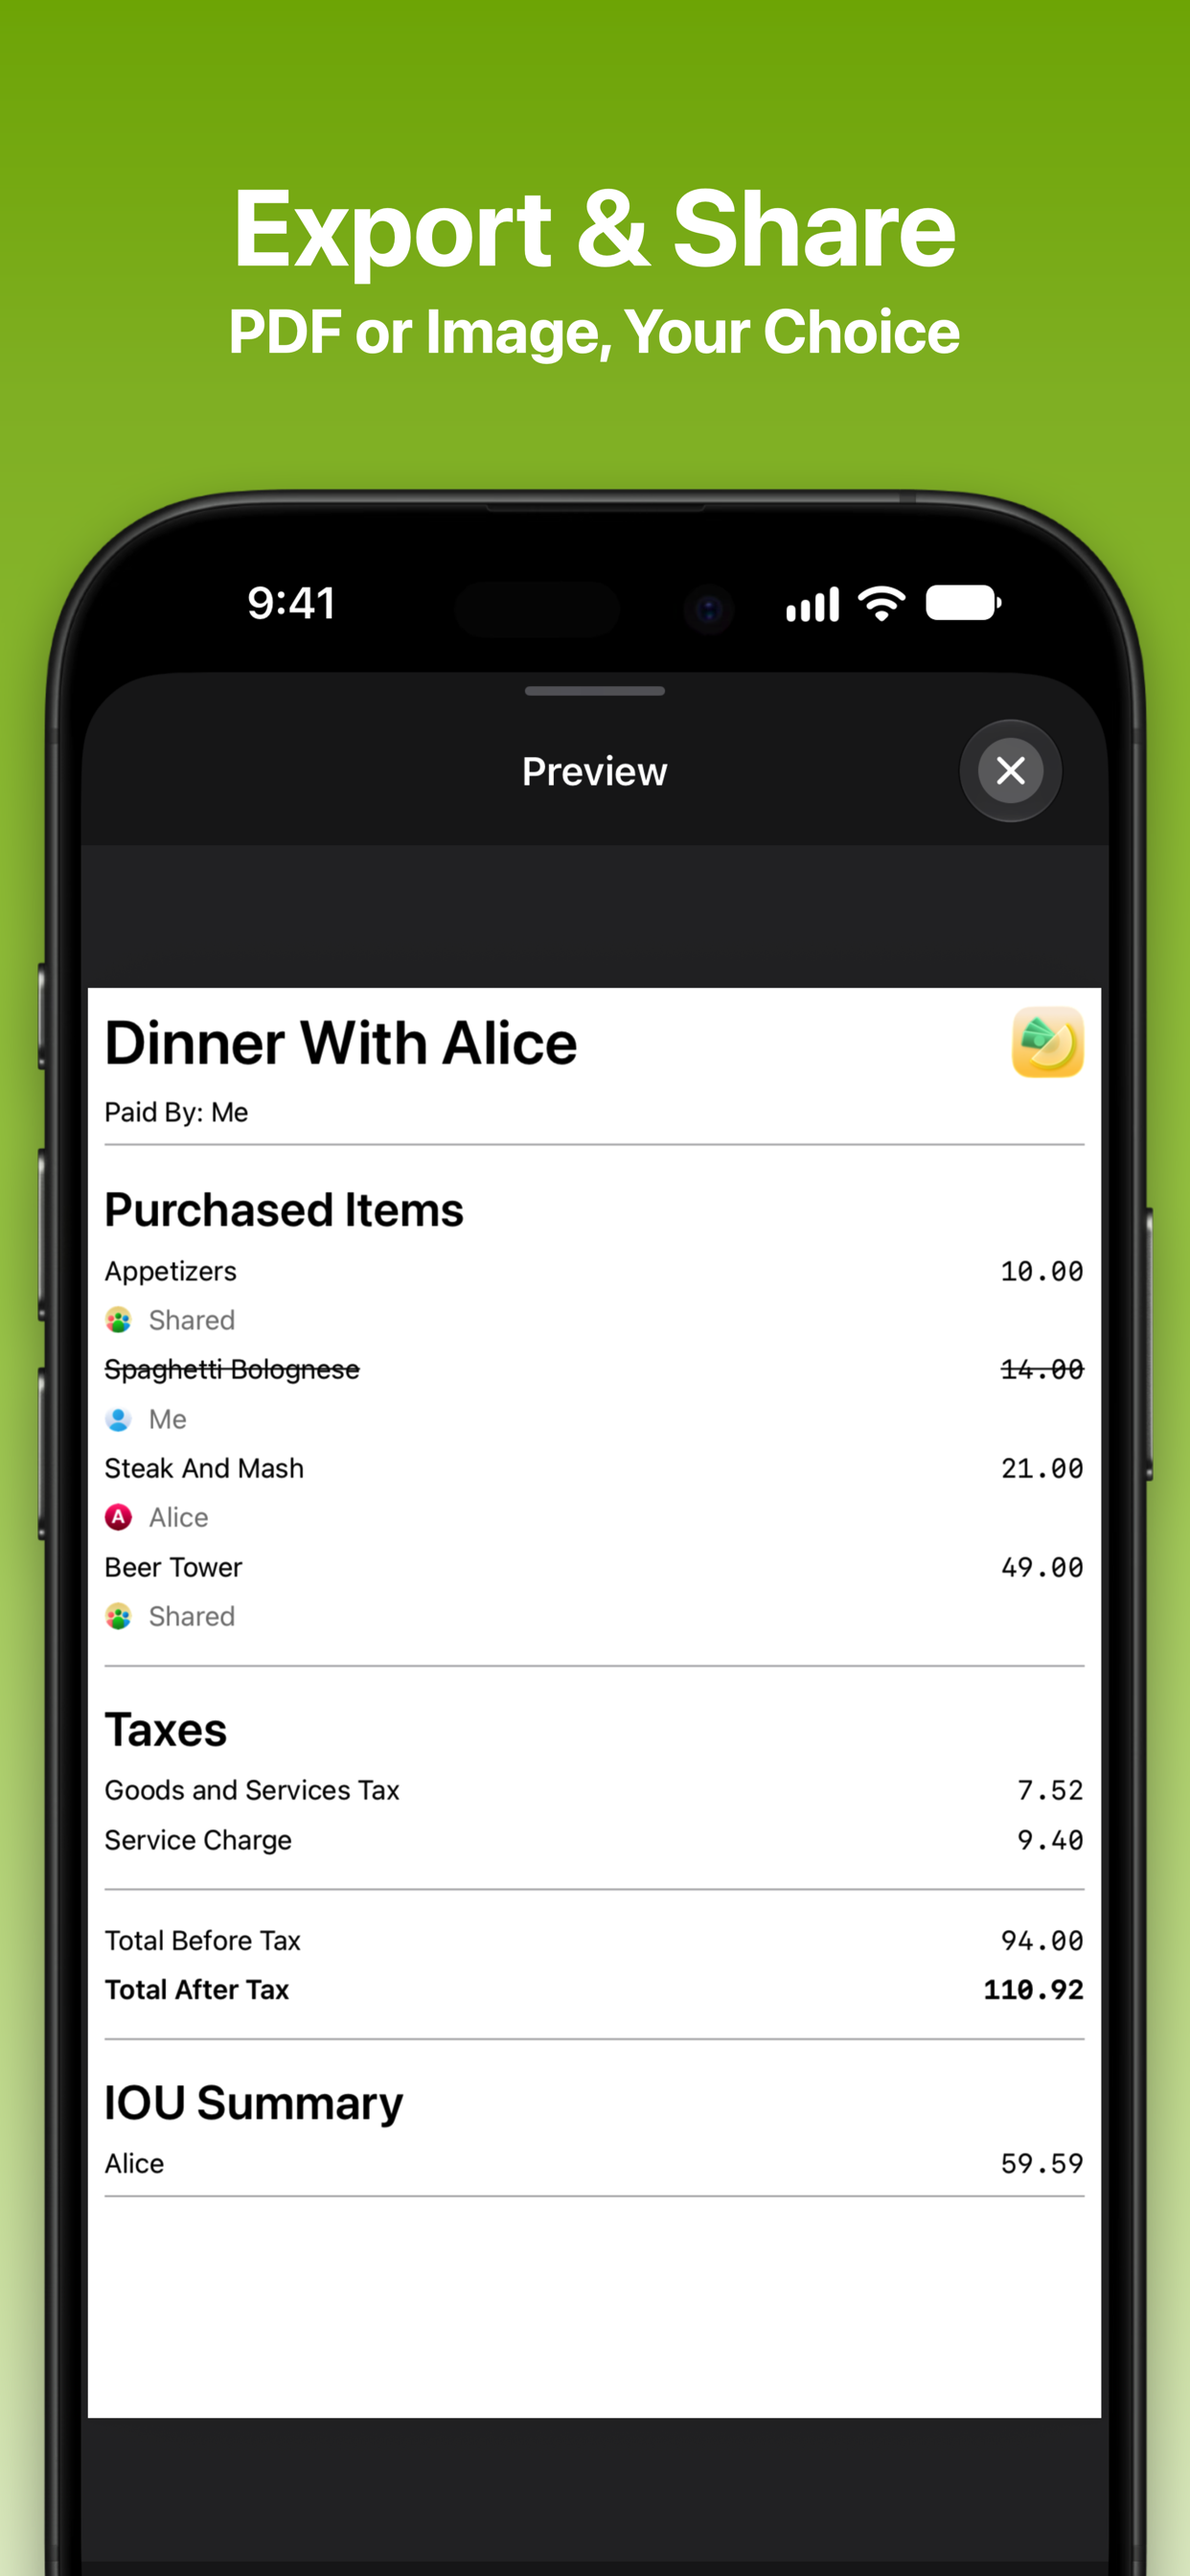
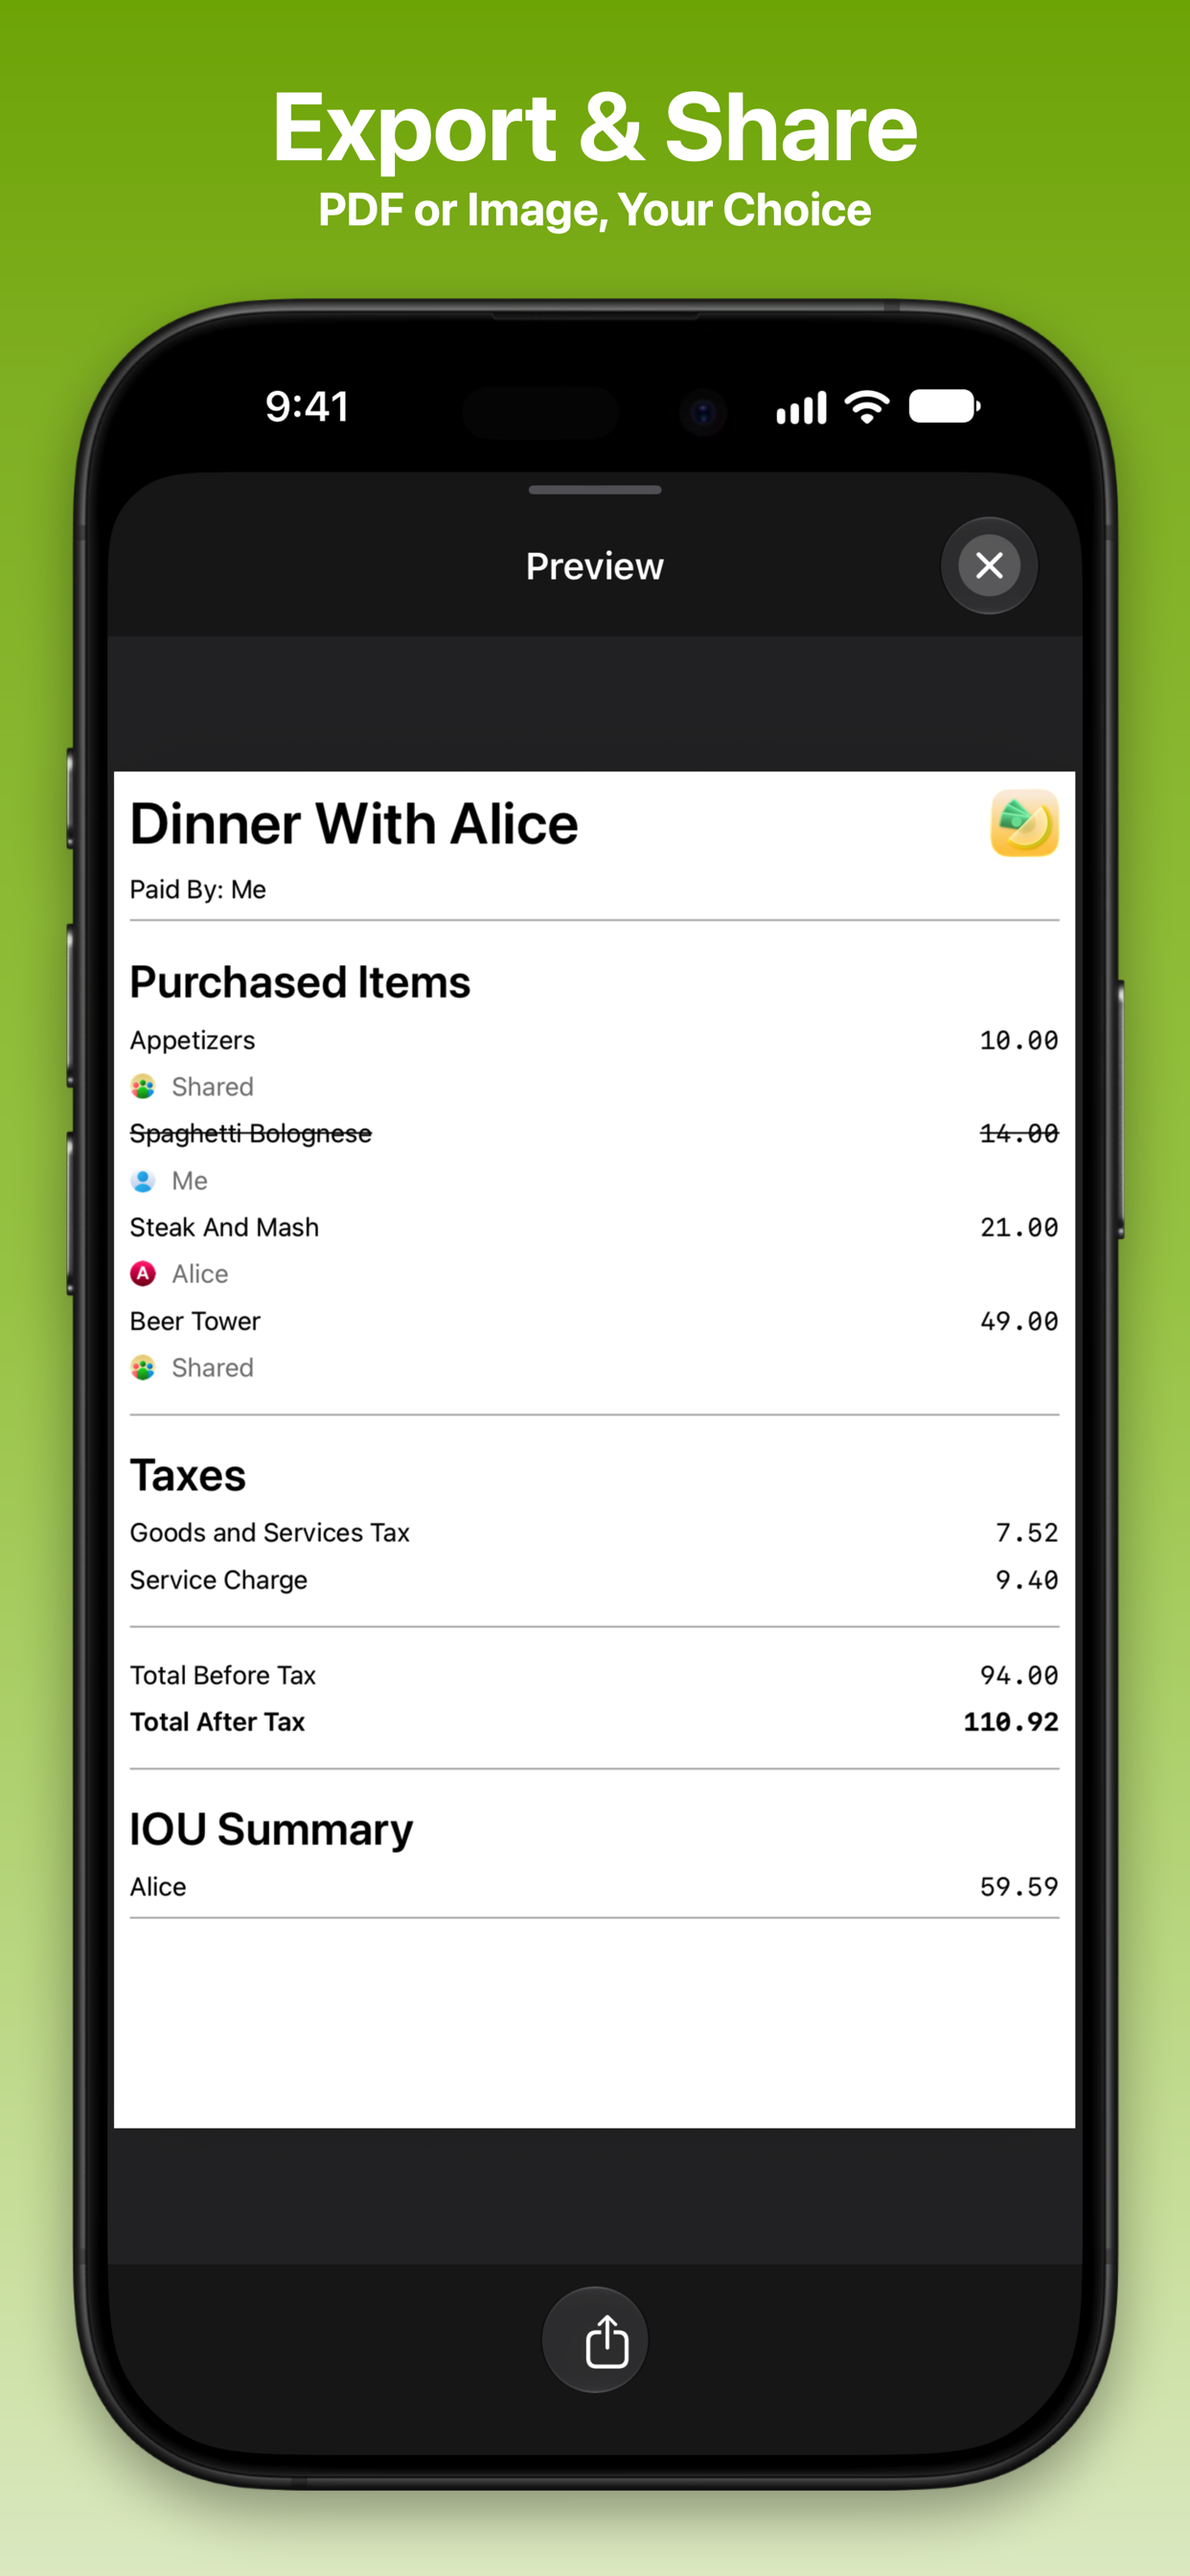
Position screenshot device and text to match Tables

diff --git a/Assets/App Store/compose.swift b/Assets/App Store/compose.swift
@@ -3,8 +3,8 @@
 import AppKit
 
 // Frames the captures in Raw/iPhone/<lang>/ into App Store screenshots in iPhone/<lang>/,
-// laid out after the original Keynote decks: a two-line header over a gradient, with the
-// device below it running off the bottom of the canvas.
+// styled after the original Keynote decks: a two-line header over a gradient, with the device
+// below it placed as in the other Atelier apps' screenshots.
 
 let scriptDir = URL(fileURLWithPath: CommandLine.arguments[0]).deletingLastPathComponent()
 let languages = ["en", "ja"]
@@ -228,6 +228,9 @@ func maskedScreen(raw: NSImage) -> NSImage {
 }
 
 /// Draws the device `width` wide and centered, with its top `top` down from the top of the canvas.
+/// Where the device starts, down from the top of the canvas, matching Tables.
+let deviceTop: CGFloat = 311
+
 func drawDevice(raw: NSImage, width: CGFloat, top: CGFloat) {
     let height = width / deviceAspect
     let rect = NSRect(
@@ -254,8 +257,8 @@ func textSizes(_ language: String) -> (header: CGFloat, caption: CGFloat) {
     let copies = screenshots.compactMap { $0.copy[language] }
     let maxWidth = canvasSize.width - 96
     return (
-        Line.fittingSize(for: copies.map(\.header), size: 132, weight: .bold, maxWidth: maxWidth),
-        Line.fittingSize(for: copies.map(\.caption), size: 64, weight: .bold, maxWidth: maxWidth)
+        Line.fittingSize(for: copies.map(\.header), size: 100, weight: .bold, maxWidth: maxWidth),
+        Line.fittingSize(for: copies.map(\.caption), size: 48, weight: .bold, maxWidth: maxWidth)
     )
 }
 
@@ -288,19 +291,20 @@ func compose(_ shot: Screenshot, language: String) -> Result {
     // AppKit's origin is bottom-left, so the gradient is drawn downwards to start at the top.
     background.draw(in: NSRect(origin: .zero, size: canvasSize), angle: -90)
 
-    // Placed as in the Keynote decks, measured down from the top of the canvas.
+    // Measured down from the top of the canvas; the text sits centered above the device.
     let sizes = textSizes(language)
     let header = Line(copy.header, size: sizes.header, weight: .bold)
     let caption = Line(copy.caption, size: sizes.caption, weight: .bold)
-    header.draw(baseline: 277)
-    caption.draw(baseline: 368)
+    header.draw(baseline: 167)
+    caption.draw(baseline: 235)
 
     switch shot.layout {
     case .single:
-        drawDevice(raw: raws[0], width: 1166, top: 510)
+        // As in Tables: the whole device, from below the text to a margin at the bottom.
+        drawDevice(raw: raws[0], width: (canvasSize.height - deviceTop - 88) * deviceAspect, top: deviceTop)
     case .stacked:
-        drawDevice(raw: raws[0], width: 1040, top: 550)
-        drawDevice(raw: raws[1], width: 1166, top: 1340)
+        drawDevice(raw: raws[0], width: 980, top: deviceTop + 30)
+        drawDevice(raw: raws[1], width: 1106, top: 1140)
     }
 
     image.unlockFocus()
